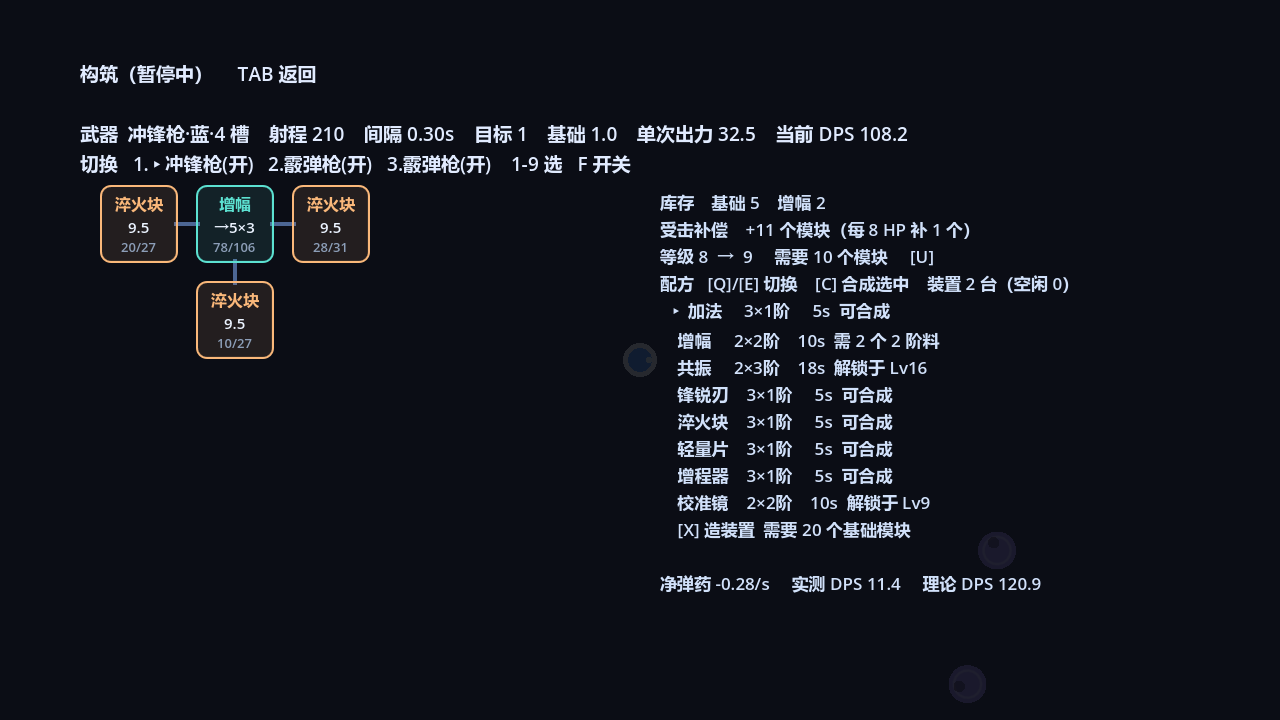
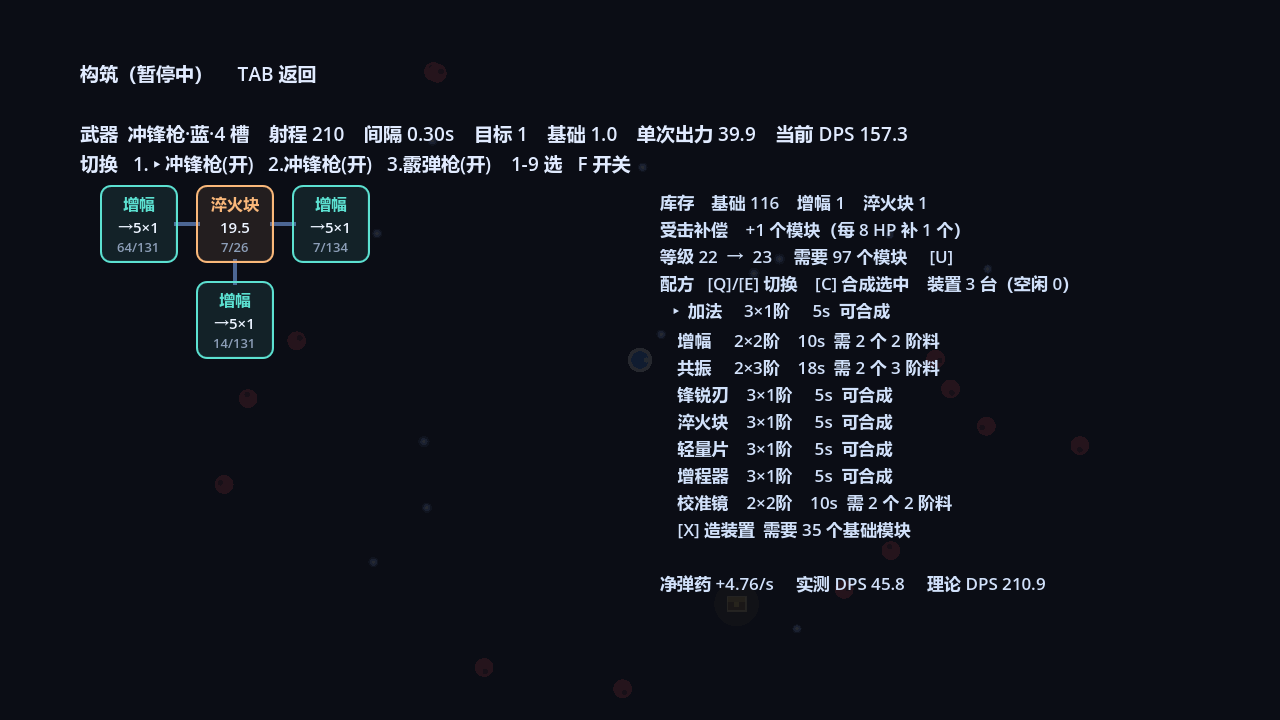
feat(stage L): 数量优先数值 + 生成编队（单点/一团/弧线/一圈）+ 镜头缩放 0.72

diff --git a/README.md b/README.md
@@ -80,12 +80,12 @@ Windows 下如果报 `Could not create directory: 'user://logs'`，先设 `$env:
 
 | 项 | 值 |
 | --- | --- |
-| 敌人 HP | `4 × 1.130^(wave−1)`，再乘该敌人的血量倍率 |
-| 刷怪速率 | `(0.70 + 0.120 × wave) × 编成系数 ÷ 本波平均血量倍率`，上限 `基础值 × 1.2` |
-| 每杀掉落 | 0.40 个基础模块 |
+| 敌人 HP | `1.80 × 1.118^(wave−1)`，再乘该敌人的血量倍率 |
+| 刷怪速率 | `(1.20 + 0.62 × wave) × 编成系数 ÷ 本波平均血量倍率`，上限 `基础值 × 1.8` |
+| 每杀掉落 | 0.30 个基础模块 |
 | 波间隔 | 40 s |
-| 同屏上限 | 240 只 |
-| 接触伤害 | 3.0 / 秒 / 只（最多同时 6 只结算） |
+| 同屏上限 | 420 只 |
+| 接触伤害 | 2.2 / 秒 / 只（最多同时 6 只结算） |
 | 模块 | 基础 `1.0 / 45次` · 加法 `3.0 / 60` · 增幅 `0 出力 + 5.0 / 120` · 共振 `27.0 / 100` |
 | 配方 | `2×基础 → 加法 3s` · `2×基础 → 增幅 8s` · `2×增幅 → 共振 14s` |
 | 配方解锁 | 加法 Lv4 · 增幅 Lv8 · 共振 Lv16 |
@@ -95,7 +95,7 @@ Windows 下如果报 `Could not create directory: 'user://logs'`，先设 `$env:
 | 受击补偿 | 每 8 HP → 1 个模块 |
 | 宝箱 | 精英 50% · 每波 1 个 · 90 秒保底 · 45 秒消失 · 同屏最多 3 个 |
 
-> 方案 v2.4 会把上表改成「数量优先」：刷怪 ×2、血量成长降到 1.105、掉落 0.30、同屏 420。
+> 已按「数量优先」调过：敌人变多、单个变脆（血量基数 4 → 1.8，刷怪量约 ×1.7），总血量压力基本不变，但屏幕上的人明显变多。
 
 ## 武器
 
